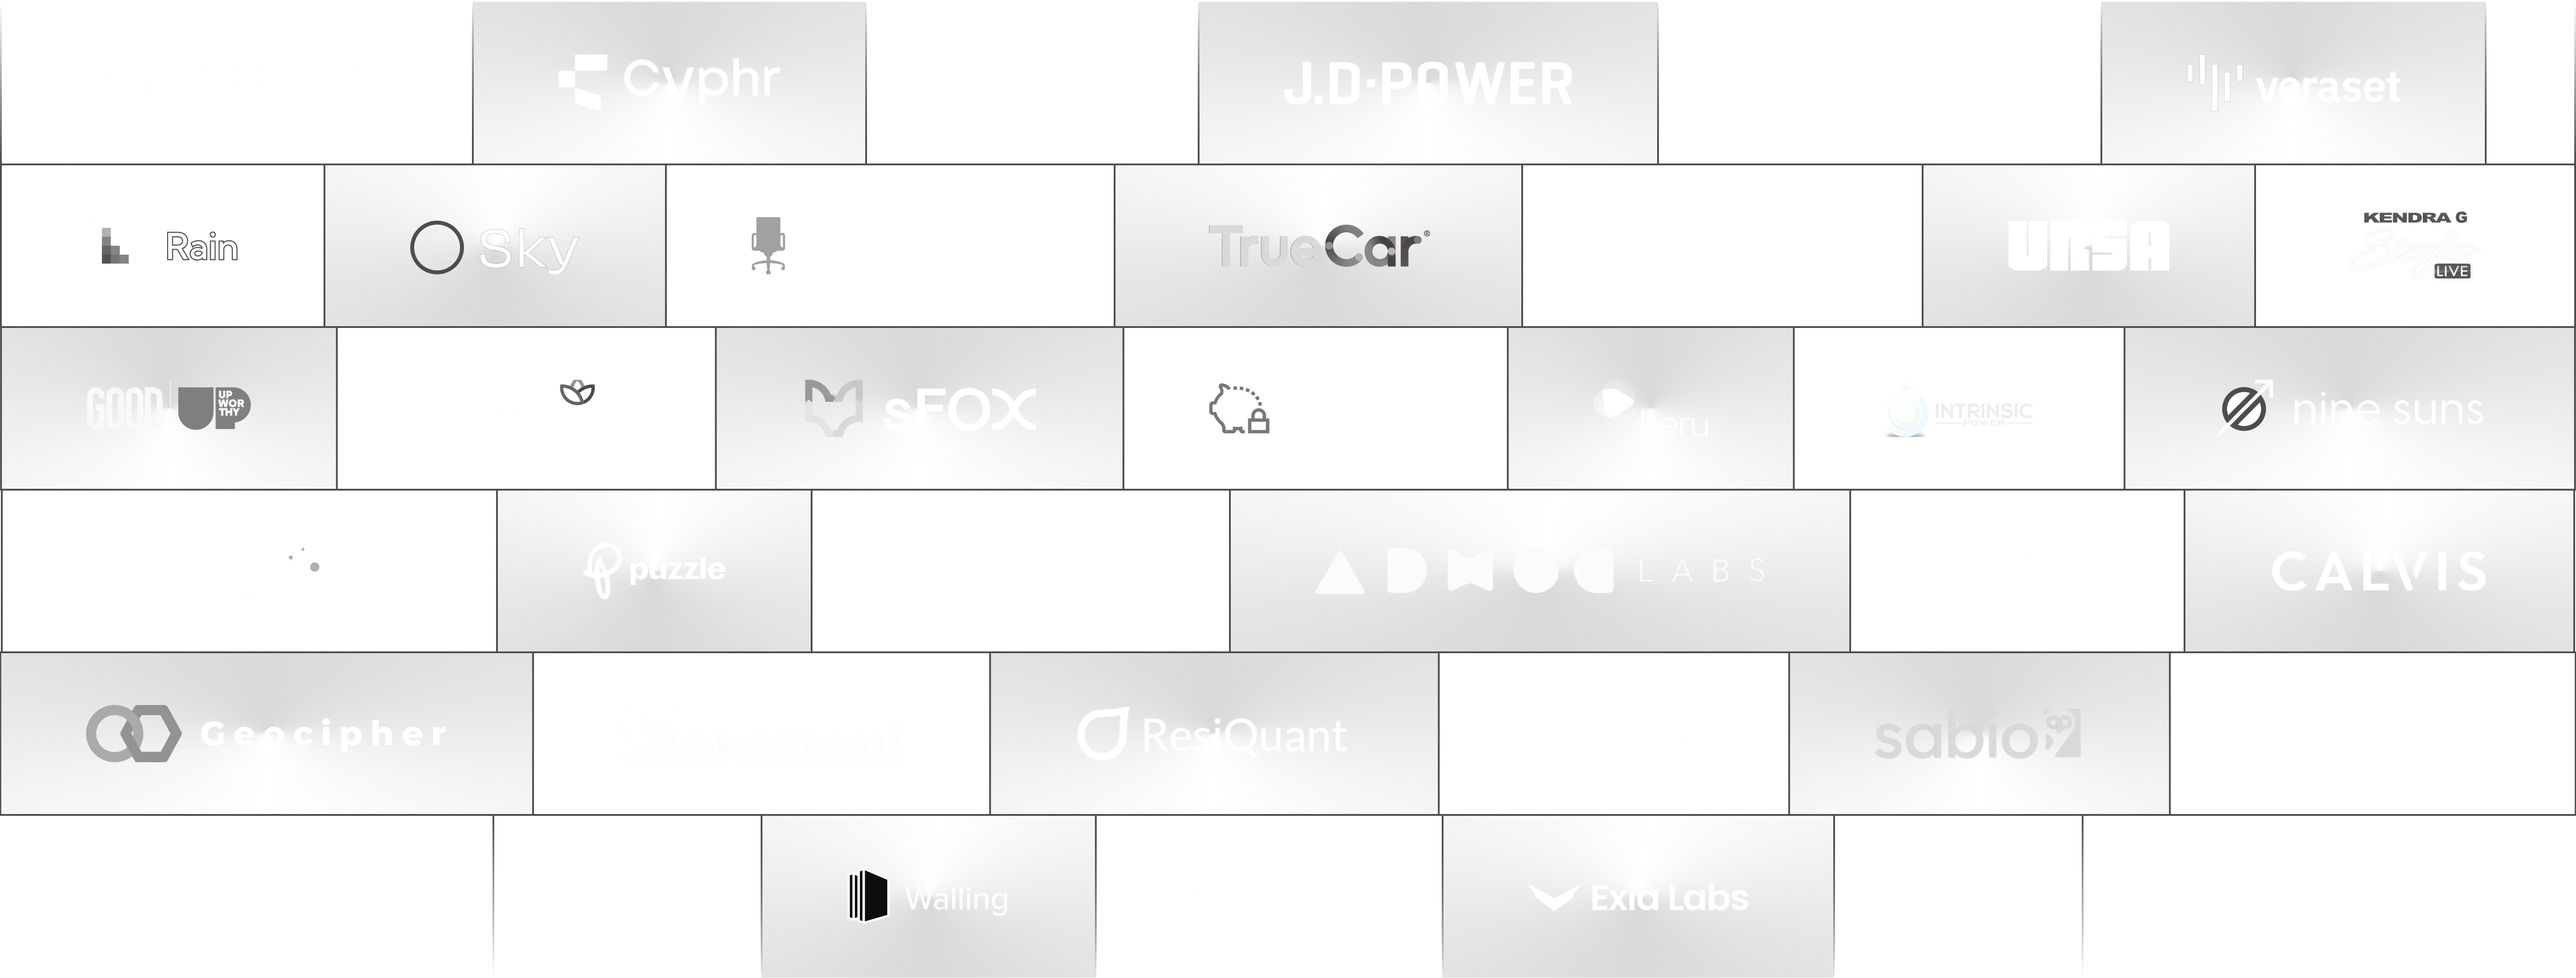
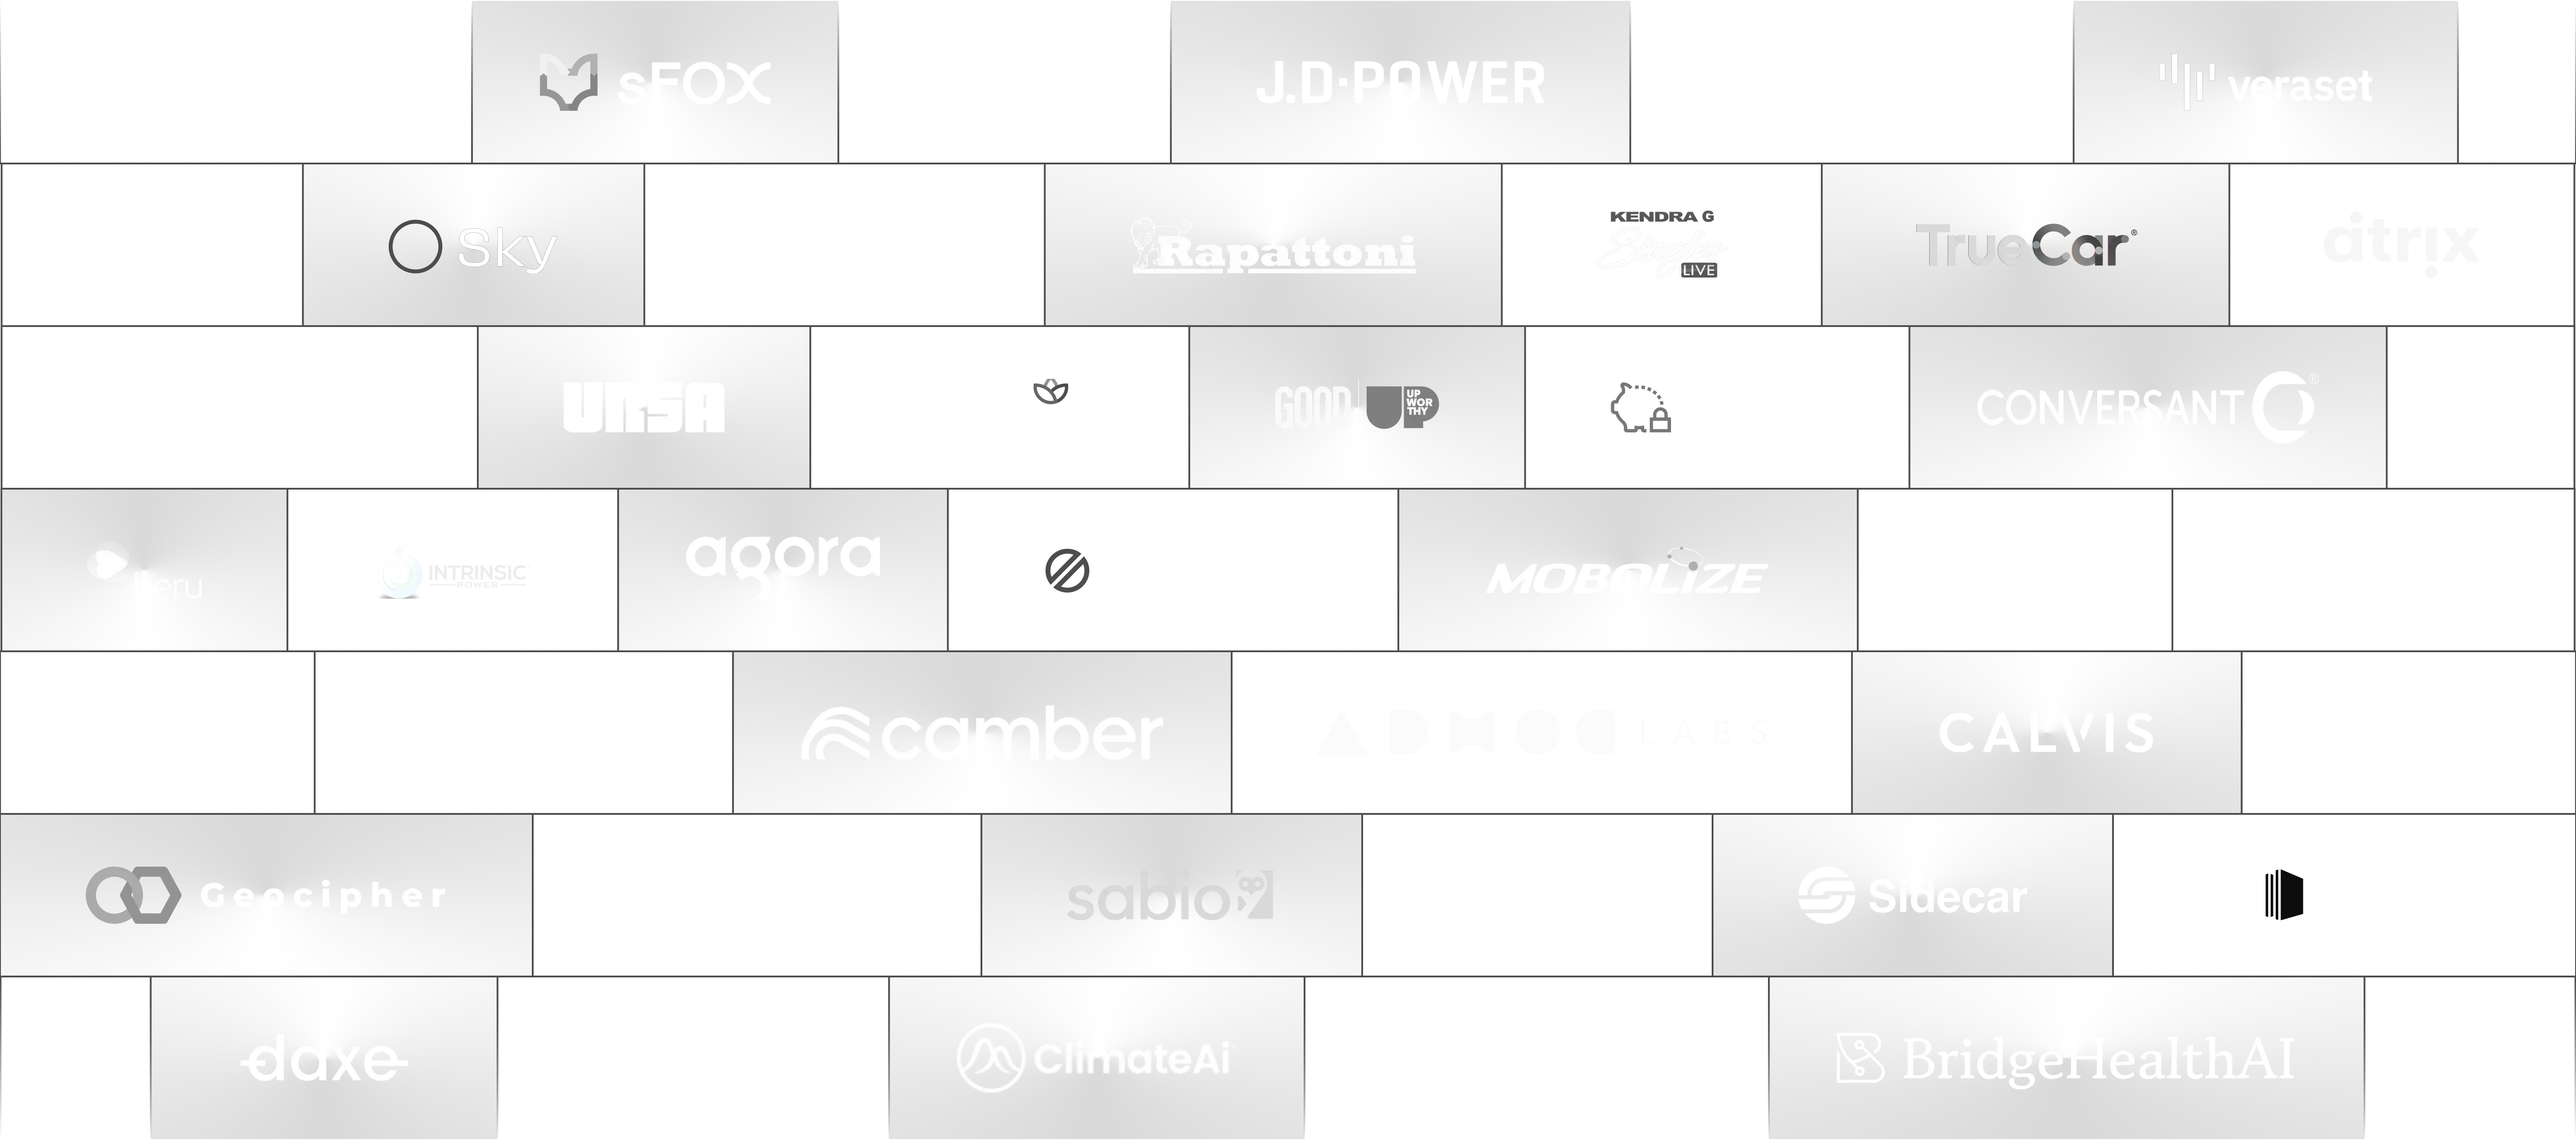
chore: remove cyphr

diff --git a/src/components/molecules/home/TrustByManagementTeam.tsx b/src/components/molecules/home/TrustByManagementTeam.tsx
@@ -8,7 +8,6 @@ import liquidity_icon from '@/assets/images/trust-management-team/liquidity.png'
 import ursa_icon from '@/assets/images/trust-management-team/ursa.png';
 import volta_icon from '@/assets/images/trust-management-team/volta.png';
 import sidecar_icon from '@/assets/images/trust-management-team/sidecar.png';
-import cyphr_icon from '@/assets/images/trust-management-team/cyphr.png';
 import pura_icon from '@/assets/images/trust-management-team/pura.png';
 import heru_icon from '@/assets/images/trust-management-team/heru.png';
 import atrix_icon from '@/assets/images/trust-management-team/atrix.png';
@@ -21,7 +20,6 @@ import gabe_avatar from '@/assets/images/trust-management-team/avatar/gabe.png';
 import george_avatar from '@/assets/images/trust-management-team/avatar/george.png';
 import ryan_avatar from '@/assets/images/trust-management-team/avatar/ryan.png';
 import chad_avatar from '@/assets/images/trust-management-team/avatar/chad.png';
-import alaia_avatar from '@/assets/images/trust-management-team/avatar/alaia.png';
 import asa_avatar from '@/assets/images/trust-management-team/avatar/asa.png';
 import scott_avatar from '@/assets/images/trust-management-team/avatar/scott.png';
 import james_avatar from '@/assets/images/trust-management-team/avatar/james.png';
@@ -110,14 +108,6 @@ const teams: TManagementTeam[] = [
     position: 'Founder at SidecarData',
     avatarSrc: james_avatar,
     iconSrc: sidecar_icon,
-  },
-  {
-    desc: `"We can't recommend Spartan enough! When we hired them, we were scrambling to get our product built in a short timeframe, but without most of the real framework we needed. They not only finished our software platform in just three months but also got us through our SOC2 audit at the same time. Their speed and efficiency were seriously impressive.
-The Spartan team is amazing to work with—they kept us in the loop the whole time, and anytime we had questions or needed changes, they were on it right away.”`,
-    name: 'Alaia Martin',
-    position: 'Co-Founder and COO Cyphr',
-    avatarSrc: alaia_avatar,
-    iconSrc: cyphr_icon,
   },
   {
     desc: `"Spartan stands out for startups and scale-ups exploring outsourcing. Their engineering team excels, offering more than just solutions - they're dedicated partners in your success.”`,
